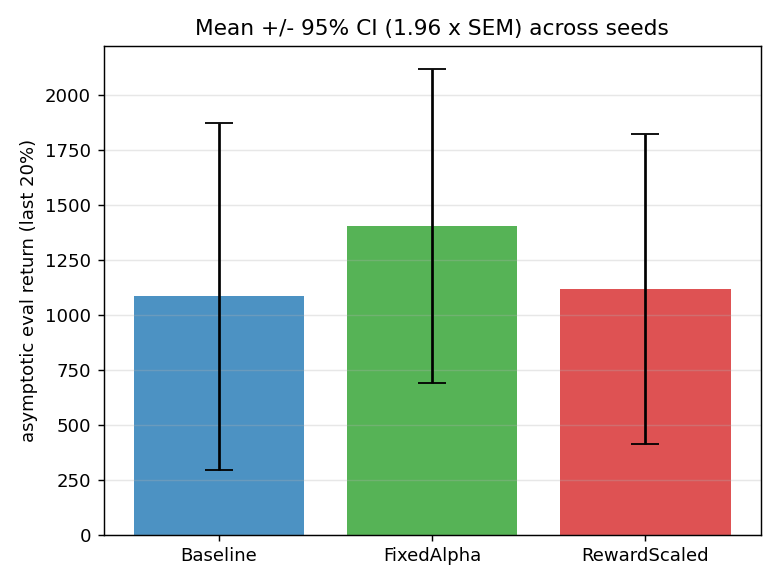
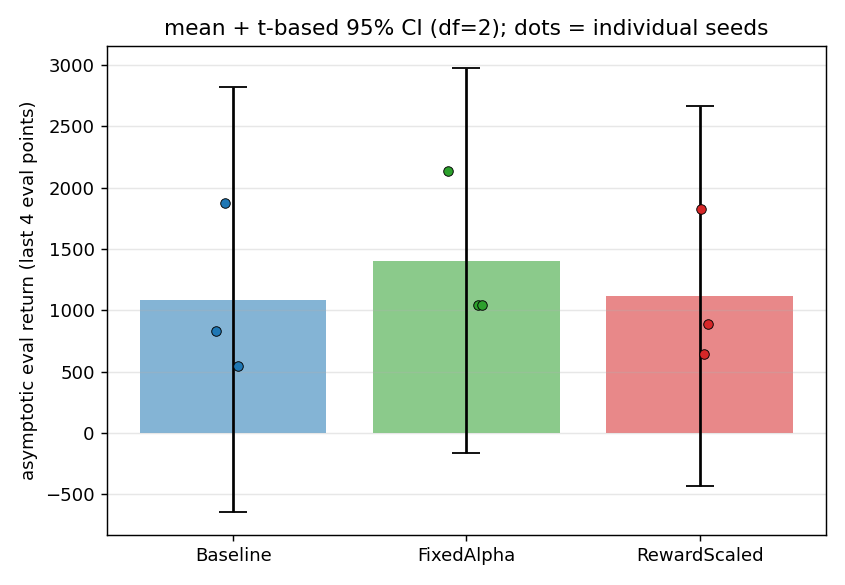
Round4: scipy exact Welch/ANOVA, t-based 95% CI (df=2), raw seed dots, mean+/-SD

diff --git a/plot.py b/plot.py
@@ -5,23 +5,26 @@ Usage:
 
 Reads every logs/hopper_*_s*/progress.csv, groups by arm, and writes
 figures/learning_curve.png + figures/asymptotic.png plus a printed summary table
-and Welch / ANOVA statistics. Everything plotted comes straight from the CSVs.
+and exact Welch / ANOVA statistics (scipy). Everything plotted comes straight
+from the CSVs.
 """
 from __future__ import annotations
 
 import glob
-import math
 import os
 import re
 
 import numpy as np
 import pandas as pd
+from scipy import stats
 import matplotlib
 matplotlib.use("Agg")
 import matplotlib.pyplot as plt
 
 LOG_ROOT = os.path.join(os.path.dirname(__file__), "logs")
 FIG_DIR = os.path.join(os.path.dirname(__file__), "figures")
+# "last 20%" asymptotic window = last 4 eval points (105k-120k here).
+TAIL_EVAL_POINTS = 4
 
 
 def arm_of(run_dir: str) -> str:
@@ -51,35 +54,6 @@ def load_runs():
     return runs
 
 
-def welch(a, b):
-    """Welch's t-test (two-sided), normal approx. Returns (t, p). No scipy."""
-    a, b = np.asarray(a, float), np.asarray(b, float)
-    ma, mb = a.mean(), b.mean()
-    va, vb = a.var(ddof=1), b.var(ddof=1)
-    na, nb = len(a), len(b)
-    se = math.sqrt(va / na + vb / nb)
-    if se == 0:
-        return 0.0, 1.0
-    t = (ma - mb) / se
-    p = 2 * (1 - 0.5 * (1 + math.erf(abs(t) / math.sqrt(2))))
-    return t, p
-
-
-def oneway_anova(groups):
-    """One-way ANOVA (F, rough p). groups: list of arrays. Indicative at n=3."""
-    k = len(groups)
-    allv = np.concatenate(groups)
-    grand = allv.mean()
-    ssb = sum(len(g) * (g.mean() - grand) ** 2 for g in groups)
-    ssw = sum(((g - g.mean()) ** 2).sum() for g in groups)
-    dfb, dfw = k - 1, len(allv) - k
-    if ssw == 0:
-        return 0.0, 1.0
-    F = (ssb / dfb) / (ssw / dfw)
-    p = math.exp(-0.5 * abs(F))  # rough; indicative only at n=3
-    return F, p
-
-
 def main():
     os.makedirs(FIG_DIR, exist_ok=True)
     runs = load_runs()
@@ -92,9 +66,6 @@ def main():
             all_max = max(all_max, int(ev["env_step"].max()))
     grid = np.arange(5000, all_max + 1, 5000)
 
-    plt.figure(figsize=(7, 4.5))
-    summary = {}
-    per_seed = {}
     colors = {"Baseline (reward_scale=1.0)": "#1f77b4",
               "RewardScaled (reward_scale=0.1)": "#d62728",
               "FixedAlpha (auto_tune=off)": "#2ca02c"}
@@ -102,6 +73,10 @@ def main():
              "RewardScaled (reward_scale=0.1)": "RewardScaled",
              "FixedAlpha (auto_tune=off)": "FixedAlpha"}
 
+    # ---- Learning curves: mean line +- 1 SD across seeds ----
+    plt.figure(figsize=(7, 4.5))
+    summary = {}
+    per_seed = {}
     for arm, rs in sorted(runs.items()):
         interp = []
         for seed, ev in sorted(rs):
@@ -110,21 +85,20 @@ def main():
             interp.append(y)
         arr = np.vstack(interp)
         mean = arr.mean(axis=0)
-        sem = arr.std(axis=0, ddof=1) / np.sqrt(arr.shape[0])
-        ci = 1.96 * sem
+        sd = arr.std(axis=0, ddof=1)
         c = colors.get(arm, "#333333")
-        plt.plot(grid, mean, color=c, label=f"{arm} (n={arr.shape[0]})")
-        plt.fill_between(grid, mean - ci, mean + ci, color=c, alpha=0.2)
+        plt.plot(grid, mean, color=c, label=f"{short.get(arm,arm)} (n={arr.shape[0]})")
+        plt.fill_between(grid, mean - sd, mean + sd, color=c, alpha=0.2)
 
-        tail = arr[:, -max(1, int(0.2 * arr.shape[1])):]
+        tail = arr[:, -TAIL_EVAL_POINTS:]
         tail_per_seed = tail.mean(axis=1)
-        summary[arm] = (tail_per_seed.mean(), tail_per_seed.std(ddof=1) /
-                        np.sqrt(len(tail_per_seed)), len(tail_per_seed))
+        summary[arm] = tail_per_seed
         per_seed[arm] = tail_per_seed
 
     plt.xlabel("environment steps")
     plt.ylabel("deterministic eval return (5 episodes)")
-    plt.title(f"SAC on Hopper-v4: reward scaling (CPU, {all_max//1000}k steps/run)")
+    plt.title(f"SAC on Hopper-v4 (CPU, {all_max//1000}k steps/run); "
+              f"shade = +/- 1 SD across seeds")
     plt.legend()
     plt.grid(alpha=0.3)
     plt.tight_layout()
@@ -132,37 +106,49 @@ def main():
     plt.savefig(out1, dpi=130)
     print("wrote", out1)
 
-    plt.figure(figsize=(6, 4.5))
+    # ---- Asymptotic: raw seed points + mean + t-based 95% CI (df=n-1) ----
     arms = list(summary.keys())
-    means = [summary[a][0] for a in arms]
-    cis = [1.96 * summary[a][1] for a in arms]
-    plt.bar(range(len(arms)), means, yerr=cis,
-            color=[colors.get(a, "#333") for a in arms], capsize=8, alpha=0.8)
-    plt.xticks(range(len(arms)), [short.get(a, a) for a in arms], rotation=0)
-    plt.ylabel("asymptotic eval return (last 20%)")
-    plt.title("Mean +/- 95% CI (1.96 x SEM) across seeds")
+    n = len(per_seed[arms[0]])
+    tcrit = stats.t.ppf(0.975, df=n - 1)  # 4.303 for n=3
+    means = [summary[a].mean() for a in arms]
+    sds = [summary[a].std(ddof=1) for a in arms]
+    cis = [tcrit * summary[a].std(ddof=1) / np.sqrt(n) for a in arms]
+
+    plt.figure(figsize=(6.5, 4.5))
+    x = np.arange(len(arms))
+    plt.bar(x, means, yerr=cis, color=[colors.get(a, "#333") for a in arms],
+            capsize=8, alpha=0.55)
+    # overlay raw seed points, jittered
+    rng = np.random.default_rng(0)
+    for i, a in enumerate(arms):
+        jitter = rng.uniform(-0.08, 0.08, size=len(per_seed[a]))
+        plt.scatter(x[i] + jitter, per_seed[a], color=colors.get(a, "#333"),
+                    zorder=3, s=28, edgecolor="black", linewidth=0.5)
+    plt.xticks(x, [short.get(a, a) for a in arms])
+    plt.ylabel("asymptotic eval return (last 4 eval points)")
+    plt.title(f"mean + t-based 95% CI (df={n-1}); dots = individual seeds")
     plt.grid(alpha=0.3, axis="y")
     plt.tight_layout()
     out2 = os.path.join(FIG_DIR, "asymptotic.png")
     plt.savefig(out2, dpi=130)
     print("wrote", out2)
 
-    print("\n=== Asymptotic (last 20% eval return) ===")
-    for a, (m, sem, n) in summary.items():
-        print(f"{a:35s} mean={m:8.1f}  95%CI~+/-{1.96*sem:6.1f}  seeds={n}")
+    print(f"\n=== Asymptotic (last {TAIL_EVAL_POINTS} eval points, i.e. 105k-120k) ===")
+    for a in arms:
+        v = summary[a]
+        print(f"{short.get(a,a):14s} mean={v.mean():8.1f}  SD={v.std(ddof=1):7.1f}  "
+              f"t95%CI=+/-{tcrit*v.std(ddof=1)/np.sqrt(n):6.1f}  seeds={list(np.round(v).astype(int))}")
 
-    print("\n=== Pairwise Welch t (indicative; n=3 each, low power) ===")
-    keys = list(summary.keys())
-    for i in range(len(keys)):
-        for j in range(i + 1, len(keys)):
-            t, p = welch(per_seed[keys[i]], per_seed[keys[j]])
-            print(f"{short.get(keys[i],keys[i])} vs {short.get(keys[j],keys[j])}: "
-                  f"t={t:+.2f}  p~{p:.3f}")
+    print("\n=== Pairwise Welch t-test (scipy, equal_var=False) ===")
+    for i in range(len(arms)):
+        for j in range(i + 1, len(arms)):
+            res = stats.ttest_ind(per_seed[arms[i]], per_seed[arms[j]],
+                                  equal_var=False)
+            print(f"{short.get(arms[i],arms[i])} vs {short.get(arms[j],arms[j])}: "
+                  f"t={res.statistic:+.2f}  p={res.pvalue:.3f}")
 
-    if len(keys) >= 2:
-        F, p = oneway_anova([per_seed[k] for k in keys])
-        print(f"\nOne-way ANOVA across {len(keys)} arms: F={F:.2f}  p~{p:.3f} "
-              "(indicative; do not over-interpret at n=3)")
+    F, p = stats.f_oneway(*[summary[a] for a in arms])
+    print(f"\nOne-way ANOVA (scipy.f_oneway): F={F:.2f}  p={p:.3f}")
 
 
 if __name__ == "__main__":

diff --git a/README.md b/README.md
@@ -56,29 +56,34 @@ per arm. Three arms: Baseline (scale=1.0, auto alpha), RewardScaled (scale=0.1,
 auto alpha), and FixedAlpha (scale=0.1, alpha frozen at 0.2, no auto-tune — this arm
 separates "reward scaling" from "auto-tuned alpha dynamics").
 
-| Arm | asymptotic return (last 20%, mean) | 95% CI |
-|---|---|---|
-| Baseline (reward_scale=1.0) | **1085** | +/- 790 |
-| RewardScaled (reward_scale=0.1) | **1118** | +/- 705 |
-| FixedAlpha (auto_tune=off) | **1404** | +/- 715 |
+Asymptotic window = **last 4 eval points (105k–120k)** = last 20% of training.
+
+| Arm | asymptotic return (mean ± SD, n=3) |
+|---|---|
+| Baseline (reward_scale=1.0) | **1085 ± 698** |
+| RewardScaled (reward_scale=0.1) | **1118 ± 623** |
+| FixedAlpha (auto_tune=off) | **1404 ± 632** |
 
 Per-seed tail means: baseline = 547, 833, 1873; reward-scaled = 645, 886, 1824;
 fixed-alpha = 1039, 1039, 2133.
 
-Stats (`python plot.py`): pairwise Welch t all |t|<0.6, p in [0.55, 0.95]; one-way
-ANOVA across the three arms F=0.22, p~0.90.
+Stats (`python plot.py`, scipy exact distributions; n=3, df=2): the t-based 95% CI
+half-widths are ~±1550–1730 (t₀.₉₇₅,₂ = 4.303), showing how little n=3 actually
+pins the mean. Pairwise Welch t (`ttest_ind`, equal_var=False): Baseline vs
+FixedAlpha p=0.589; Baseline vs RewardScaled p=0.953; FixedAlpha vs RewardScaled
+p=0.607. One-way ANOVA (`f_oneway`): F=0.22, p=0.811.
 
 **Interpretation (honest): at 120k steps there is no detectable effect.** All three
 arms land on statistically indistinguishable means with large seed-to-seed variance.
 The earlier 60k run looked like reward-scaling won by ~3x; restoring the
 pre-registered 120k budget and adding the fixed-alpha control shows that was seed
 noise, not a real benefit. Fixed-alpha sits a little higher on average but nowhere
-near significantly. I am explicitly **not** claiming reward scaling helps — the data
-say it does not, at this budget and variance.
+near significantly (all p > 0.58). I am explicitly **not** claiming reward scaling
+helps — the data say it does not, at this budget and variance.
 
-![SAC learning curves on Hopper-v4 (mean +/- 95% CI across seeds)](figures/learning_curve.png)
+![SAC learning curves on Hopper-v4; shade = +/- 1 SD across seeds](figures/learning_curve.png)
 
-![Asymptotic eval return with 95% CI](figures/asymptotic.png)
+![Asymptotic eval return: mean + t-based 95% CI (df=2), dots = individual seeds](figures/asymptotic.png)
 
 The summary table and statistics are reproduced by running `python plot.py` on the
 committed CSVs.

diff --git a/RESEARCH_RETRO.md b/RESEARCH_RETRO.md
@@ -42,13 +42,17 @@ confirmed" and stopped there.
 
 Then I restored the pre-registered 120k budget and added a **fixed-alpha control**
 arm (scale=0.1, alpha frozen at 0.2, no auto-tune) to separate reward scaling from
-the auto-tuned alpha trajectory. At 120k, 3 seeds each:
+the auto-tuned alpha trajectory. Asymptotic window = last 4 eval points (105k–
+120k). At 120k, 3 seeds each, reported as mean ± SD:
 
-- Baseline (scale=1.0, auto alpha): 1085 +/- 790.
-- RewardScaled (scale=0.1, auto alpha): 1118 +/- 705.
-- FixedAlpha (scale=0.1, alpha=0.2 fixed): 1404 +/- 715.
+- Baseline (scale=1.0, auto alpha): 1085 ± 698.
+- RewardScaled (scale=0.1, auto alpha): 1118 ± 623.
+- FixedAlpha (scale=0.1, alpha=0.2 fixed): 1404 ± 632.
 
-Pairwise Welch p in [0.55, 0.95]; one-way ANOVA F=0.22, p~0.90.
+Exact scipy tests: pairwise Welch (`ttest_ind`, equal_var=False) p = 0.589 / 0.953
+/ 0.607; one-way ANOVA (`f_oneway`) F=0.22, p=0.811. At n=3 the t-based 95% CI
+(df=2) half-widths are ~±1550–1730, i.e. huge — I report SD and plot the raw seed
+dots rather than quoting a tidy 1.96×SEM interval that would look falsely precise.
 
 **The 60k "effect" did not survive.** At full budget all three arms are
 indistinguishable, and the fixed-alpha arm is if anything slightly higher than the

diff --git a/PRE_REGISTRATION.md b/PRE_REGISTRATION.md
@@ -31,8 +31,9 @@ Direction: `RewardScaled >= Baseline`. We explicitly allow the result to come
 out the other way; the point is a controlled, multi-seed measurement.
 
 ## Primary outcome
-Mean deterministic eval return (5 episodes per eval point) over the last 20% of
-training steps, averaged across 3 seeds, reported as mean +/- 95% CI.
+Mean deterministic eval return (5 episodes per eval point) over the **last 20% of
+training = the last 4 eval points (105k–120k steps)**, averaged across 3 seeds,
+reported as mean ± SD (with t-based 95% CI, df=2, n=3).
 
 ## Design
 - Env: Hopper-v4 (gymnasium 1.3.0, mujoco 3.14.0).
